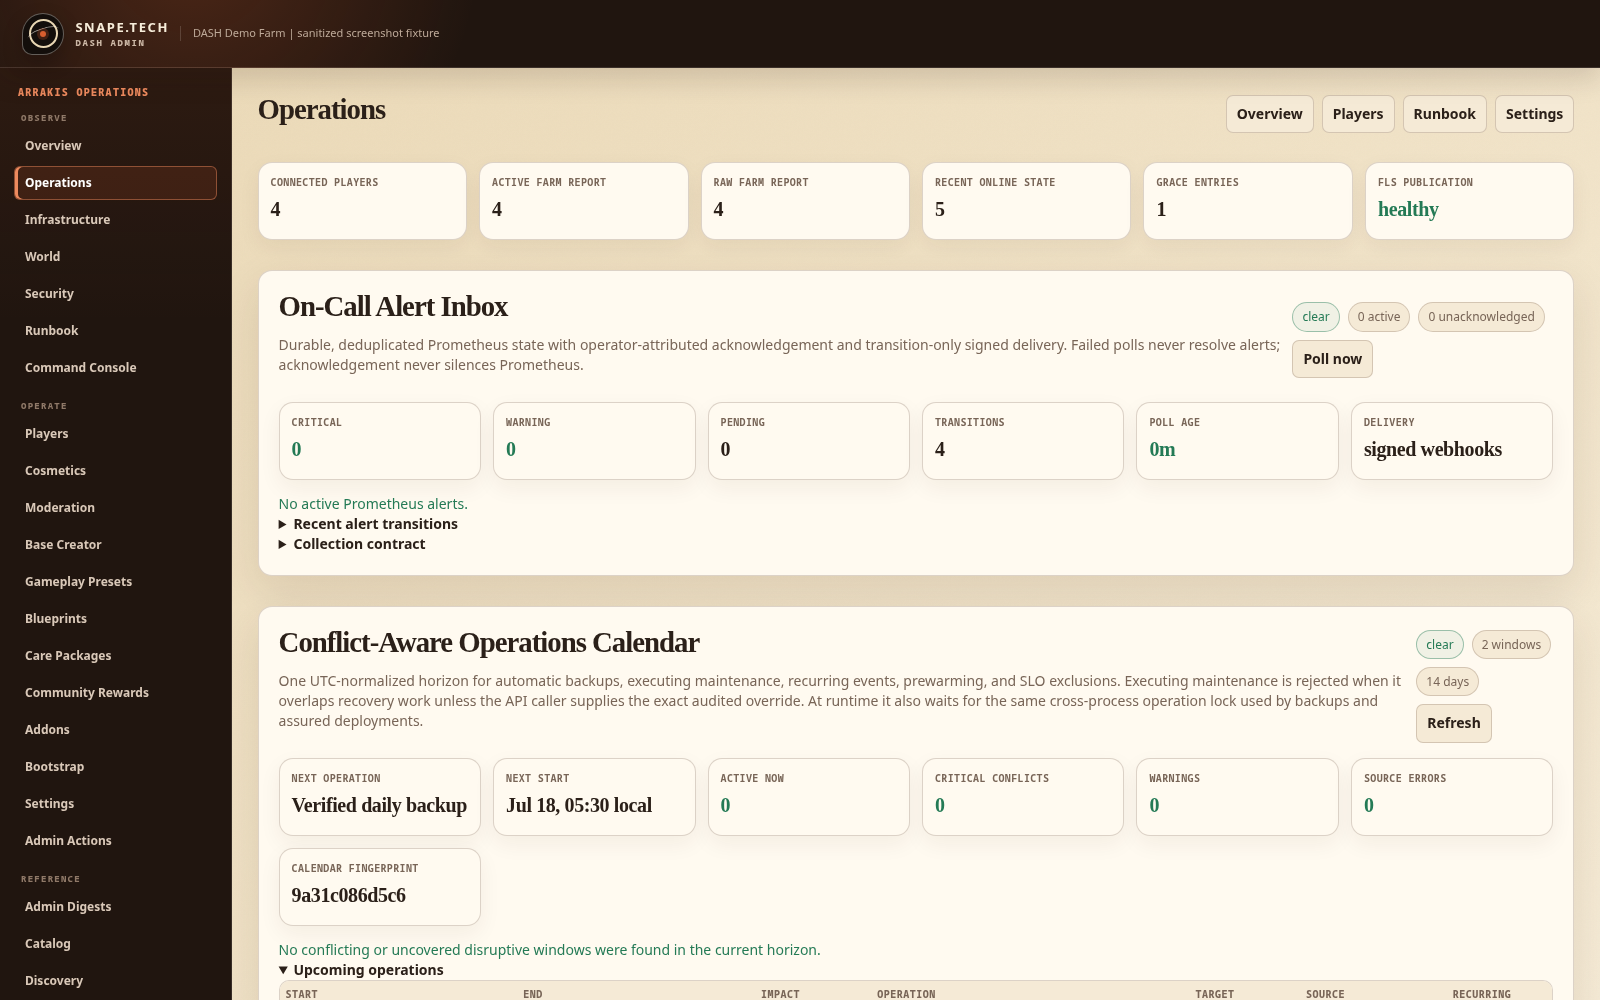
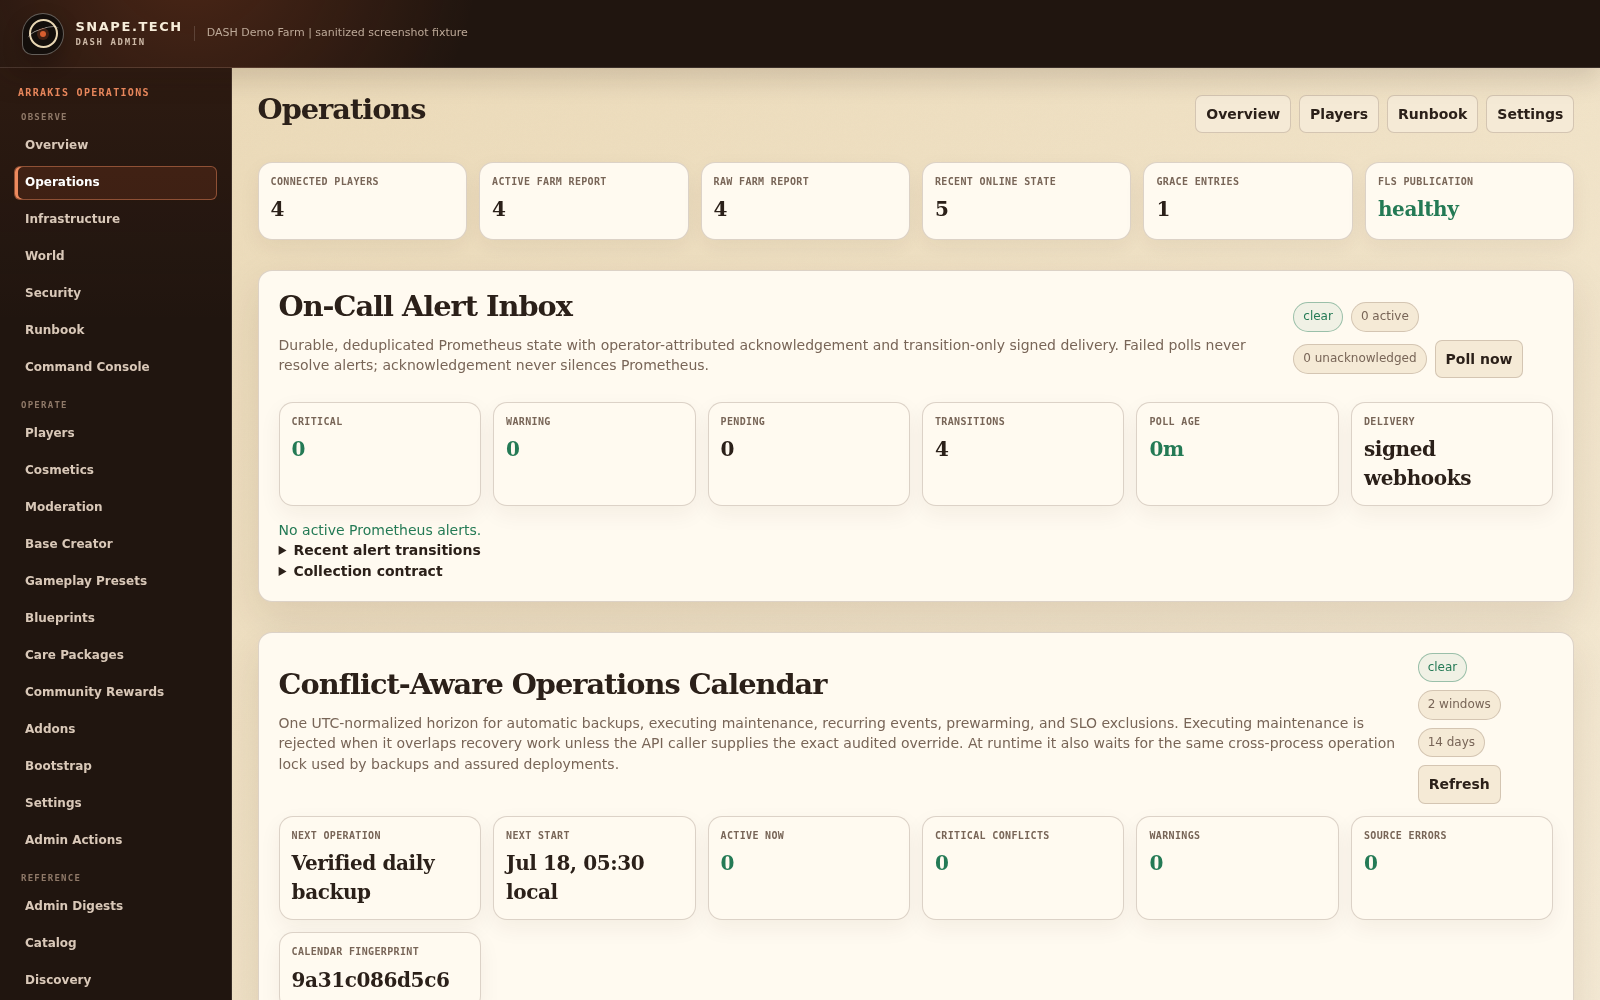
fix(ci): align validation with private-server adaptations
- test-admin-panel-safe-surfaces: spice caps/availability queries are
  intentionally stubbed (spicefield_types/spicefield_server_availability
  absent in game builds >= 1.5.x, commit fe5dce09) — assert the stub
  contract (empty caps, no errors, typedKnob metadata intact) instead of
  expecting DeepDesert rows
- docs/assets: regenerate README screenshots + manifest for post-merge
  admin_panel.py (sourceSha256 binding was stale after upstream merge)
- enable-feature-parity: drop the 6 deliberately-uncatalogued flags
  (discord/community x3/federated-auth/webhooks/backup-encryption, all
  =false here) from the activator keys — completes 3c0b337 and restores
  the catalog-coverage invariant
- test-community-canary: skip manifest-binding test when the
  community-rewards row is intentionally uncatalogued on this server

diff --git a/scripts/test-community-canary.py b/scripts/test-community-canary.py
@@ -85,7 +85,9 @@ class CommunityCanaryTests(unittest.TestCase):
         deployment = (ROOT / "scripts" / "deployment-assurance.py").read_text(encoding="utf-8")
         push = (ROOT / "scripts" / "push-assured-control-plane.sh").read_text(encoding="utf-8")
         catalog = json.loads((ROOT / "config" / "feature-readiness.json").read_text(encoding="utf-8"))
-        feature = next(row for row in catalog["features"] if row["id"] == "community-rewards")
+        feature = next((row for row in catalog["features"] if row["id"] == "community-rewards"), None)
+        if feature is None:
+            self.skipTest("community-rewards intentionally uncatalogued on this private server (commit 3c0b337)")
         self.assertEqual("operator-canary-pending", feature["canary"])
         self.assertEqual("community-rewards", feature["probe"])
         self.assertIn({"path": "admin/community_canary.py", "minimumBytes": 1000}, feature["files"])

diff --git a/scripts/test-admin-panel-safe-surfaces.py b/scripts/test-admin-panel-safe-surfaces.py
@@ -846,7 +846,13 @@ class AdminPanelSafeSurfacesTest(unittest.TestCase):
         self.assertEqual(lifecycle["mutators"]["partyAccountCommuninet"]["status"], "inspect-only")
 
         spice = self.handler.spice_field_inspect()
-        self.assertEqual(spice["caps"][0]["map"], "DeepDesert")
+        # dune.spicefield_types / dune.spicefield_server_availability do not exist
+        # in game builds >= 1.5.x, so the caps/availability queries are
+        # intentionally stubbed to no-ops (commit fe5dce09). Assert the stub
+        # contract: empty caps, no recorded query errors, typed-knob mutator
+        # metadata still exposed.
+        self.assertEqual(spice["caps"], [])
+        self.assertEqual(spice["errors"], {})
         self.assertIn("typedKnob", spice)
 
     def test_event_dry_run_is_plan_only(self):
